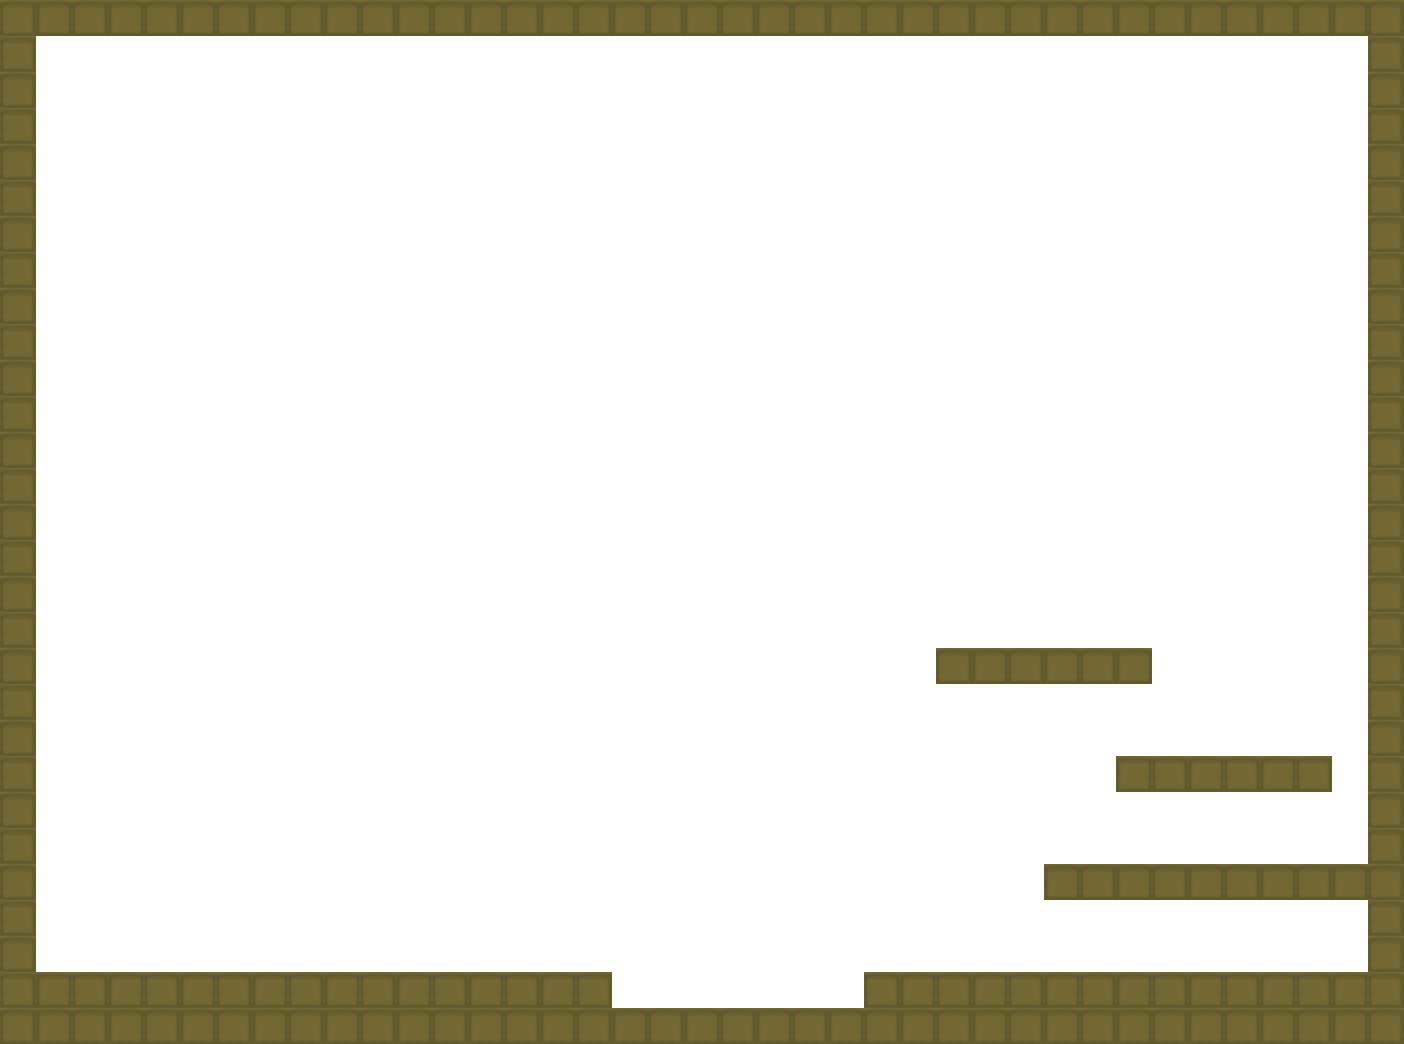
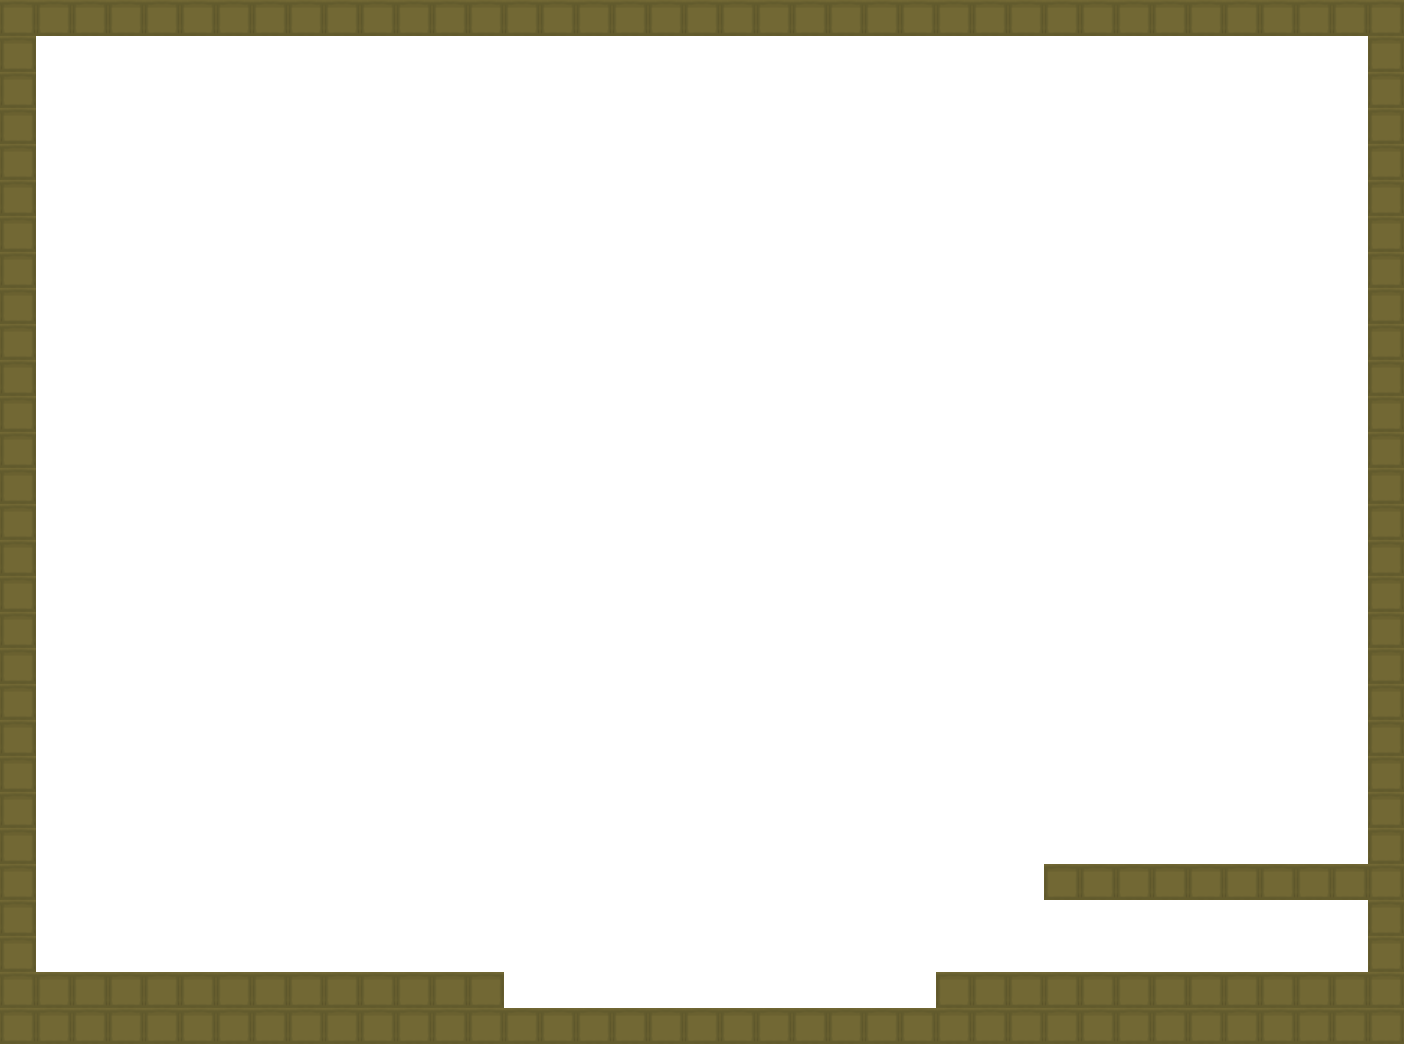
fix(ates-buz): L7 'Kopru Gecidi' — gercek 2-buton role co-op bulmacasi
v3'te L7 dumduz geciliyordu (kaldirac-tumsegi yandan atlanabiliyordu). Artik GENIS
asit hendegi (12 hucre = ziplanamaz) + paylasilan rampa-koprueye bagli 2 buton:
biri butonu basili tutarken digeri koprudden gecer, sonra karsi butonu tutup ilki
gecer (asimetrik role — Level 1/4 idiomu). Tek oyuncu yapamaz; kopru olmadan asit
oldurur -> 'dumduz' imkansiz.

- build_levels.py: LEVEL7 + OBJECTS[7] yeniden; _ramp_json finalY override (kopru
  zeminle TAM hizali y967 -> bacak takilmaz).
- Oyun-ici __AB ile uctan uca dogrulandi: koprusuz asit gecilemez (olum); role ile
  iki oyuncu da kapiya ulasir, iki kapi eszamanli acik.

diff --git a/games/ates-buz/js/collisionBlocks.js b/games/ates-buz/js/collisionBlocks.js
@@ -225,16 +225,16 @@ const level7 = [
     BLOCK, EMPTY, EMPTY, EMPTY, EMPTY, EMPTY, EMPTY, EMPTY, EMPTY, EMPTY, EMPTY, EMPTY, EMPTY, EMPTY, EMPTY, EMPTY, EMPTY, EMPTY, EMPTY, EMPTY, EMPTY, EMPTY, EMPTY, EMPTY, EMPTY, EMPTY, EMPTY, EMPTY, EMPTY, EMPTY, EMPTY, EMPTY, EMPTY, EMPTY, EMPTY, EMPTY, EMPTY, EMPTY, BLOCK,
     BLOCK, EMPTY, EMPTY, EMPTY, EMPTY, EMPTY, EMPTY, EMPTY, EMPTY, EMPTY, EMPTY, EMPTY, EMPTY, EMPTY, EMPTY, EMPTY, EMPTY, EMPTY, EMPTY, EMPTY, EMPTY, EMPTY, EMPTY, EMPTY, EMPTY, EMPTY, EMPTY, EMPTY, EMPTY, EMPTY, EMPTY, EMPTY, EMPTY, EMPTY, EMPTY, EMPTY, EMPTY, EMPTY, BLOCK,
     BLOCK, EMPTY, EMPTY, EMPTY, EMPTY, EMPTY, EMPTY, EMPTY, EMPTY, EMPTY, EMPTY, EMPTY, EMPTY, EMPTY, EMPTY, EMPTY, EMPTY, EMPTY, EMPTY, EMPTY, EMPTY, EMPTY, EMPTY, EMPTY, EMPTY, EMPTY, EMPTY, EMPTY, EMPTY, EMPTY, EMPTY, EMPTY, EMPTY, EMPTY, EMPTY, EMPTY, EMPTY, EMPTY, BLOCK,
-    BLOCK, EMPTY, EMPTY, EMPTY, EMPTY, EMPTY, EMPTY, EMPTY, EMPTY, EMPTY, EMPTY, EMPTY, EMPTY, EMPTY, EMPTY, EMPTY, EMPTY, EMPTY, EMPTY, EMPTY, EMPTY, EMPTY, EMPTY, EMPTY, EMPTY, EMPTY, BLOCK, BLOCK, BLOCK, BLOCK, BLOCK, BLOCK, EMPTY, EMPTY, EMPTY, EMPTY, EMPTY, EMPTY, BLOCK,
     BLOCK, EMPTY, EMPTY, EMPTY, EMPTY, EMPTY, EMPTY, EMPTY, EMPTY, EMPTY, EMPTY, EMPTY, EMPTY, EMPTY, EMPTY, EMPTY, EMPTY, EMPTY, EMPTY, EMPTY, EMPTY, EMPTY, EMPTY, EMPTY, EMPTY, EMPTY, EMPTY, EMPTY, EMPTY, EMPTY, EMPTY, EMPTY, EMPTY, EMPTY, EMPTY, EMPTY, EMPTY, EMPTY, BLOCK,
     BLOCK, EMPTY, EMPTY, EMPTY, EMPTY, EMPTY, EMPTY, EMPTY, EMPTY, EMPTY, EMPTY, EMPTY, EMPTY, EMPTY, EMPTY, EMPTY, EMPTY, EMPTY, EMPTY, EMPTY, EMPTY, EMPTY, EMPTY, EMPTY, EMPTY, EMPTY, EMPTY, EMPTY, EMPTY, EMPTY, EMPTY, EMPTY, EMPTY, EMPTY, EMPTY, EMPTY, EMPTY, EMPTY, BLOCK,
-    BLOCK, EMPTY, EMPTY, EMPTY, EMPTY, EMPTY, EMPTY, EMPTY, EMPTY, EMPTY, EMPTY, EMPTY, EMPTY, EMPTY, EMPTY, EMPTY, EMPTY, EMPTY, EMPTY, EMPTY, EMPTY, EMPTY, EMPTY, EMPTY, EMPTY, EMPTY, EMPTY, EMPTY, EMPTY, EMPTY, EMPTY, BLOCK, BLOCK, BLOCK, BLOCK, BLOCK, BLOCK, EMPTY, BLOCK,
+    BLOCK, EMPTY, EMPTY, EMPTY, EMPTY, EMPTY, EMPTY, EMPTY, EMPTY, EMPTY, EMPTY, EMPTY, EMPTY, EMPTY, EMPTY, EMPTY, EMPTY, EMPTY, EMPTY, EMPTY, EMPTY, EMPTY, EMPTY, EMPTY, EMPTY, EMPTY, EMPTY, EMPTY, EMPTY, EMPTY, EMPTY, EMPTY, EMPTY, EMPTY, EMPTY, EMPTY, EMPTY, EMPTY, BLOCK,
+    BLOCK, EMPTY, EMPTY, EMPTY, EMPTY, EMPTY, EMPTY, EMPTY, EMPTY, EMPTY, EMPTY, EMPTY, EMPTY, EMPTY, EMPTY, EMPTY, EMPTY, EMPTY, EMPTY, EMPTY, EMPTY, EMPTY, EMPTY, EMPTY, EMPTY, EMPTY, EMPTY, EMPTY, EMPTY, EMPTY, EMPTY, EMPTY, EMPTY, EMPTY, EMPTY, EMPTY, EMPTY, EMPTY, BLOCK,
     BLOCK, EMPTY, EMPTY, EMPTY, EMPTY, EMPTY, EMPTY, EMPTY, EMPTY, EMPTY, EMPTY, EMPTY, EMPTY, EMPTY, EMPTY, EMPTY, EMPTY, EMPTY, EMPTY, EMPTY, EMPTY, EMPTY, EMPTY, EMPTY, EMPTY, EMPTY, EMPTY, EMPTY, EMPTY, EMPTY, EMPTY, EMPTY, EMPTY, EMPTY, EMPTY, EMPTY, EMPTY, EMPTY, BLOCK,
     BLOCK, EMPTY, EMPTY, EMPTY, EMPTY, EMPTY, EMPTY, EMPTY, EMPTY, EMPTY, EMPTY, EMPTY, EMPTY, EMPTY, EMPTY, EMPTY, EMPTY, EMPTY, EMPTY, EMPTY, EMPTY, EMPTY, EMPTY, EMPTY, EMPTY, EMPTY, EMPTY, EMPTY, EMPTY, EMPTY, EMPTY, EMPTY, EMPTY, EMPTY, EMPTY, EMPTY, EMPTY, EMPTY, BLOCK,
     BLOCK, EMPTY, EMPTY, EMPTY, EMPTY, EMPTY, EMPTY, EMPTY, EMPTY, EMPTY, EMPTY, EMPTY, EMPTY, EMPTY, EMPTY, EMPTY, EMPTY, EMPTY, EMPTY, EMPTY, EMPTY, EMPTY, EMPTY, EMPTY, EMPTY, EMPTY, EMPTY, EMPTY, EMPTY, BLOCK, BLOCK, BLOCK, BLOCK, BLOCK, BLOCK, BLOCK, BLOCK, BLOCK, BLOCK,
     BLOCK, EMPTY, EMPTY, EMPTY, EMPTY, EMPTY, EMPTY, EMPTY, EMPTY, EMPTY, EMPTY, EMPTY, EMPTY, EMPTY, EMPTY, EMPTY, EMPTY, EMPTY, EMPTY, EMPTY, EMPTY, EMPTY, EMPTY, EMPTY, EMPTY, EMPTY, EMPTY, EMPTY, EMPTY, EMPTY, EMPTY, EMPTY, EMPTY, EMPTY, EMPTY, EMPTY, EMPTY, EMPTY, BLOCK,
     BLOCK, EMPTY, EMPTY, EMPTY, EMPTY, EMPTY, EMPTY, EMPTY, EMPTY, EMPTY, EMPTY, EMPTY, EMPTY, EMPTY, EMPTY, EMPTY, EMPTY, EMPTY, EMPTY, EMPTY, EMPTY, EMPTY, EMPTY, EMPTY, EMPTY, EMPTY, EMPTY, EMPTY, EMPTY, EMPTY, EMPTY, EMPTY, EMPTY, EMPTY, EMPTY, EMPTY, EMPTY, EMPTY, BLOCK,
-    BLOCK, BLOCK, BLOCK, BLOCK, BLOCK, BLOCK, BLOCK, BLOCK, BLOCK, BLOCK, BLOCK, BLOCK, BLOCK, BLOCK, BLOCK, BLOCK, BLOCK, ACID_POND, ACID_POND, ACID_POND, ACID_POND, ACID_POND, ACID_POND, ACID_POND, BLOCK, BLOCK, BLOCK, BLOCK, BLOCK, BLOCK, BLOCK, BLOCK, BLOCK, BLOCK, BLOCK, BLOCK, BLOCK, BLOCK, BLOCK,
+    BLOCK, BLOCK, BLOCK, BLOCK, BLOCK, BLOCK, BLOCK, BLOCK, BLOCK, BLOCK, BLOCK, BLOCK, BLOCK, BLOCK, ACID_POND, ACID_POND, ACID_POND, ACID_POND, ACID_POND, ACID_POND, ACID_POND, ACID_POND, ACID_POND, ACID_POND, ACID_POND, ACID_POND, BLOCK, BLOCK, BLOCK, BLOCK, BLOCK, BLOCK, BLOCK, BLOCK, BLOCK, BLOCK, BLOCK, BLOCK, BLOCK,
     BLOCK, BLOCK, BLOCK, BLOCK, BLOCK, BLOCK, BLOCK, BLOCK, BLOCK, BLOCK, BLOCK, BLOCK, BLOCK, BLOCK, BLOCK, BLOCK, BLOCK, BLOCK, BLOCK, BLOCK, BLOCK, BLOCK, BLOCK, BLOCK, BLOCK, BLOCK, BLOCK, BLOCK, BLOCK, BLOCK, BLOCK, BLOCK, BLOCK, BLOCK, BLOCK, BLOCK, BLOCK, BLOCK, BLOCK,
 ];
 

diff --git a/games/ates-buz/tools/build_levels.py b/games/ates-buz/tools/build_levels.py
@@ -305,23 +305,41 @@ def make_level(rows27, floor):
     return [BORDER] + body + [BORDER]
 
 
-# ---- BOLUM 7: "Gecit" — YATAY, kaldirac kopru bulmacasi, kolay ----
-# Ikisi ortada baslar (c7-14 zemini). Merkezde ACID hendegi (c15-21) gecisi keser.
-# ATES sola gidip FIRE-pond'u (c4-6) gecer, c1-3 cebindeki KALDIRACi ceker ->
-# rampa hendegi zemin seviyesinde kopruler (kalici). Ikisi de saga gecip
-# r24 sag-kenardaki kapilara ulasir. Su, fire-pond'u gecemez -> ates ZORUNLU.
-# Sol taraf (kaldirac cebi c1-3 + fire-pond c4-6) USTU bos: su yukaridan havuza
-# dusup gecidi atlayamasin. Raflar/kapi YALNIZ sagda (su+ates ortak, kopru sonrasi).
+# ---- BOLUM 7: "Kopru Gecidi" — YATAY, 2-BUTON ROLE koprusu, kolay-orta ----
+# Ikisi solda baslar (c1-13 zemin). Merkezde GENIS ASIT hendegi (c14-25 = 12 hucre,
+# ZIPLANAMAZ, ikisini de oldurur) sagdaki kapilardan ayirir. Tek paylasilan rampa-kopru
+# iki butona (sol c11 / sag c27) bagli (OR): biri butonda DURURKEN rampa asidi zemin
+# seviyesinde kopruler. ASIMETRIK RELE: A sol butonu tutar -> B kopruden gecer -> B sag
+# butonu tutar -> A gecer. Tek oyuncu yapamaz (hem basip hem gecemez); asit ziplanamaz
+# -> dumduz gecmek IMKANSIZ. (Level 1/4 asimetrik buton-rampa idiomu.)
 LEVEL7 = make_level([
-    E, E, E, E, E, E, E, E,         # r1-8
-    E, E, E, E, E, E, E, E, E,      # r9-17
-    "." * 25 + "#" * 6,             # r18 sag raf c26-31 (su elmasi)
-    E, E,                           # r19-20
-    "." * 30 + "#" * 6,             # r21 sag raf c31-36 (su elmasi)
-    E, E,                           # r22-23
-    "." * 28 + "#" * 9,             # r24 KAPI sahanligi sag c29-37
-    E, E,                           # r25-26
-], "#" * 16 + "a" * 7 + "#" * 14)   # r27 sol zemin c1-16 (kaldirac+start), ACID c17-23, sag c24-37
+    lay(),                # r1
+    lay(),                # r2
+    lay(),                # r3
+    lay(),                # r4
+    lay(),                # r5
+    lay(),                # r6
+    lay(),                # r7
+    lay(),                # r8
+    lay(),                # r9
+    lay(),                # r10
+    lay(),                # r11
+    lay(),                # r12
+    lay(),                # r13
+    lay(),                # r14
+    lay(),                # r15
+    lay(),                # r16
+    lay(),                # r17
+    lay(),                # r18
+    lay(),                # r19
+    lay(),                # r20
+    lay(),                # r21
+    lay(),                # r22
+    lay(),                # r23
+    lay((29, 37)),        # r24  KAPI sahanligi (sag-ust)
+    lay(),                # r25
+    lay(),                # r26
+], lay((1, 13, "#"), (14, 25, "a"), (26, 37, "#")))   # r27: sol zemin / ASIT c14-25 / sag zemin
 
 # ---- BOLUM 8: "Kule" — DIKEY zigzag tirmanis, orta ----
 # Her basamak 3 hücre + GENIS (≥4 hücre) örtüşmeli zigzag -> kolay yan-sıçrayış,
@@ -435,18 +453,19 @@ LEVELS = {7: LEVEL7, 8: LEVEL8, 9: LEVEL9, 10: LEVEL10}
 # diamonds: (col, row, "fire"|"water") -> piksel (col*36, row*36)
 OBJECTS = {
     7: {
-        "players": {"fire": (10, 27), "water": (12, 27)},   # sol zeminde (c1-16)
-        "doors": {"fire": (30, 24), "water": (34, 24)},      # r24 sag kapi sahanligi
+        "players": {"fire": (4, 27), "water": (7, 27)},      # sol zeminde
+        "doors": {"fire": (31, 24), "water": (34, 24)},      # r24 sag kapi sahanligi
         "diamonds": [
-            (2, 26, "fire"), (7, 26, "fire"), (15, 26, "fire"), (26, 26, "fire"),
-            (13, 26, "water"), (28, 17, "water"), (33, 20, "water"), (35, 23, "water"),
+            (2, 26, "fire"), (10, 26, "fire"), (30, 26, "fire"), (33, 23, "fire"),
+            (5, 26, "water"), (12, 26, "water"), (32, 26, "water"), (35, 23, "water"),
         ],
-        # KALDIRAC (paylasimli, temiz zeminde c4): cekilince rampa ACID hendegini
-        # (c17-23) zemin seviyesinde kalici kopruler -> ikisi de saga gecer.
-        "levers": [
-            {"lever": (4, 26),
-             "ramp": {"pos": (17, 23), "final": (17, 27), "boxCount": 7, "rotated": False,
-                      "color": "#b8b800", "finalColor": "#ffff33"}},
+        # 2-BUTON ROLE KOPRUSU: paylasilan rampa-kopru iki butona bagli (OR). Biri (sol c11
+        # VEYA sag c27) basili tutuldukca rampa ASIT hendegini (c14-25) zemin seviyesinde
+        # kopruler. A sol butonu tutar->B gecer->B sag butonu tutar->A gecer. ASIMETRIK RELE.
+        "buttons": [
+            {"buttons": [(11, 26), (27, 26)],
+             "ramp": {"pos": (14, 23), "final": (14, 27), "finalY": 967, "boxCount": 12, "rotated": False,
+                      "color": "#0a7d4a", "finalColor": "#10c878"}},
         ],
     },
     8: {
@@ -504,12 +523,19 @@ def _gpx(cr):
 
 def _ramp_json(r):
     """OBJECTS ramp dict {pos:(c,r), final:(c,r), boxCount, rotated, color, finalColor}
-    -> oyunun bekledigi ramp JSON'u."""
+    -> oyunun bekledigi ramp JSON'u. Opsiyonel posY/finalY = PIKSEL y override (rampa
+    hitbox'i +5 offsetli oldugu icin zemine TAM HIZALAMAK gerektiginde: finalY=zemin_top-5)."""
+    pos = _gpx(r["pos"])
+    final = _gpx(r["final"])
+    if "posY" in r:
+        pos["y"] = r["posY"]
+    if "finalY" in r:
+        final["y"] = r["finalY"]
     return {
-        "position": _gpx(r["pos"]),
+        "position": pos,
         "boxCount": r["boxCount"],
         "color": r.get("color", "#7a4fb0"),
-        "finalPosition": _gpx(r["final"]),
+        "finalPosition": final,
         "finalColor": r.get("finalColor", "#b06fe0"),
         "rotated": r.get("rotated", False),
     }
